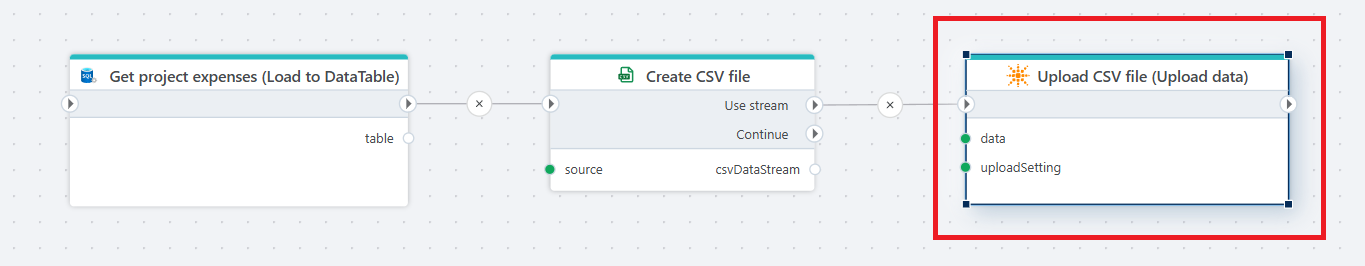
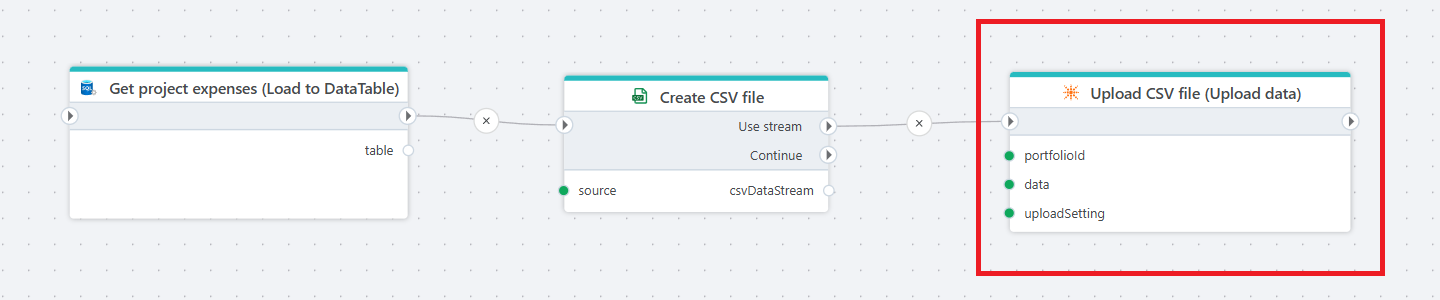
adjustments to the Portfolios docs after last code changes

diff --git a/articles/flow/actions/hypergene-portfolios/connection.md b/articles/flow/actions/hypergene-portfolios/connection.md
@@ -11,7 +11,7 @@ Optionally, you can also specify the `Domain` if you are not hosted in the stand
 | Name            | Type             | Description                      |
 |-----------------|------------------|----------------------------------|
 | Portfolio ID    | Required         | The Portfolio ID to connect to.  |
-| Domain          | Optional         | Specify the domain if you are not hosted in the standard Portfolios cloud environment. The default value is 'hub'. |
+| Domain          | Optional         | Specify the domain if you are not hosted in the standard Portfolios cloud environment. The default value is 'https://hub.thinking1.com'. |
 | User name       | Required         | The user name to authenticate with.    |
 | Password        | Required         | The password to authenticate with.     |
 
@@ -19,6 +19,6 @@ Optionally, you can also specify the `Domain` if you are not hosted in the stand
 
 ## Description
 If you are already familiar with the Portfolios HTTP API, defining a connection enables Flow to connect to the API v2 endpoint at `https://hub.thinking1.com/{portfolio-id}/api/v2` using the provided credentials for authentication.  
-If you specify a custom `Domain`, the address will be `https://{domain}.thinking1.com/{portfolio-id}/api/v2`.  
+If you specify a custom `Domain`, the address will be `{domain}/{portfolio-id}/api/v2`, for example `https://apps.myorg.com/portfolios/{portfolio-id}/api/v2` where `https://apps.myorg.com/portfolios` is the custom domain. 
 
 Having a connection defined, you can then use the [Get report data](./get-report-data.md) and [Upload data](./upload-data.md) actions to fetch and submit data to Portfolios. 

diff --git a/articles/flow/actions/hypergene-portfolios/get-report-data.md b/articles/flow/actions/hypergene-portfolios/get-report-data.md
@@ -20,6 +20,7 @@ Returns data as a [string](https://learn.microsoft.com/en-us/dotnet/api/system.s
 ## Properties
 | Name              |  Type             | Description                      |
 |-------------------|-------------------|----------------------------------|
-| Connection        | Required          | The [connection](./connection.md) to the Hypergene Portfolios subscription. |
-| Report ID         | Required          | The id of the report to get data for. |
+| Connection        | Required          | The [connection](./connection.md) to the Hypergene Portfolios API. |
+| Portfolio         | Optional          | When specified, overrides the Portfolio ID specified in the Connection. This can be a hard coded string, a variable or the Porfolio selected from the Portfolio picker in the property editor.  |
+| Report            | Required          | The id of the report to get data for. This can be a hard coded numeric value, a variable, or the report selected from the Report picker in the property editor. |
 | Format            | Optional          | The preferred format for the returned data. Options include `JSON`, `CSV`, `HTML`, and `XML`, though not all reports support every format. You can select from the list of available formats when configuring this property. If you specify a format that the report doesn’t support (for example, when using a variable), the data will be returned in the report’s default format. |

diff --git a/articles/flow/actions/hypergene-portfolios/upload-data.md b/articles/flow/actions/hypergene-portfolios/upload-data.md
@@ -12,7 +12,8 @@ The example above illustrates how to upload project expenses from an Azure SQL d
 ## Properties
 | Name            | Type            | Description              |
 |-----------------|-----------------|--------------------------|
-| Connection      | Required        | The [connection](./connection.md) to the Hypergene Portfolios subscription. |
+| Connection      | Required        | The [connection](./connection.md) to the Hypergene Portfolios API. |
+| Portfolio        | Optional       | When specified, overrides the Portfolio ID specified in the Connection. This can be a hard coded string, a variable or the Porfolio selected from the Portfolio picker in the property editor.  |
 | Data            | Required        | The data to upload. This can be a byte array, stream, or string. If you provide a string, Flow will automatically convert it to a UTF-8 encoded byte array when uploading. | 
 | Upload setting  | Required        | The name of the predefined upload setting in Hypergene Portfolios. This setting tells the Portfolios server how to handle the uploaded data. Select the desired upload setting from the list. If the list is empty, you must first define an upload in Hypergene Portfolios before uploading data using Flow. |
 
